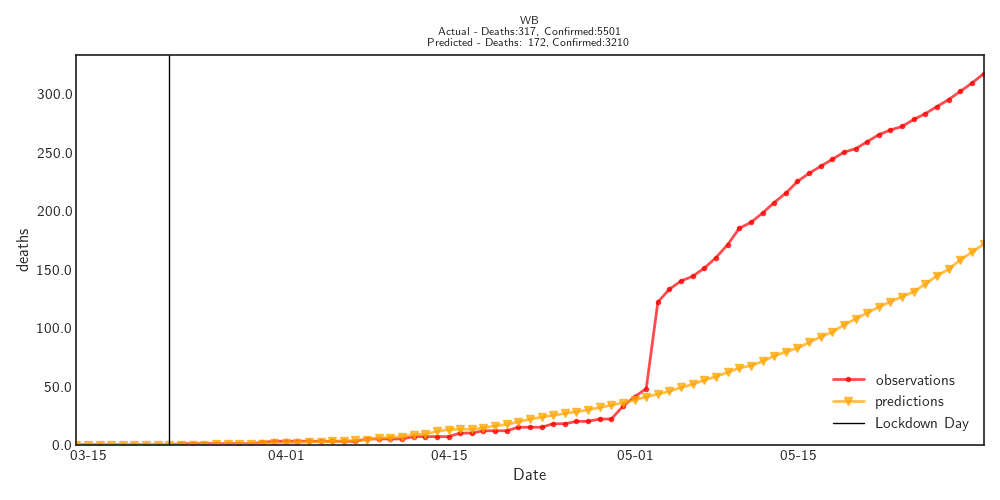
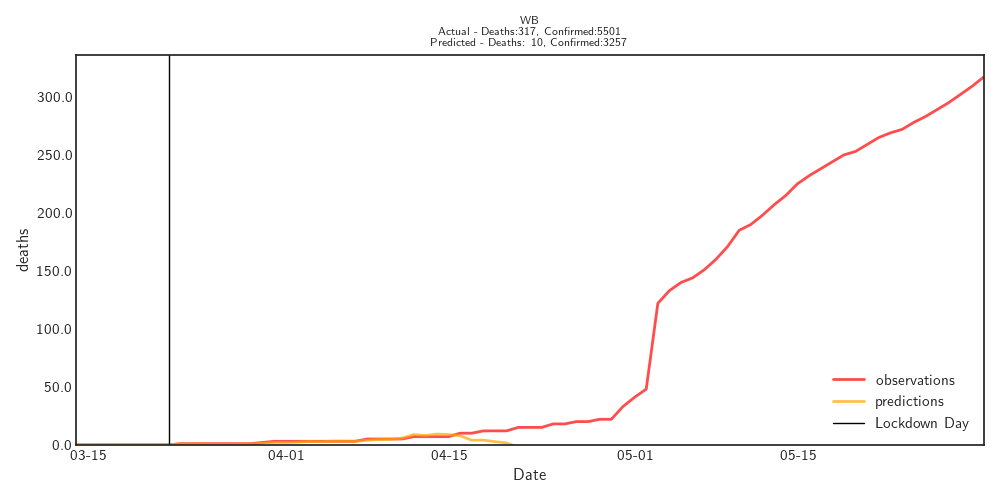
Improved graphs

diff --git a/code/run_OTH.py b/code/run_OTH.py
@@ -24,8 +24,8 @@ def main():
         name = state['name']
         lockdown_date = state['start']
         lockdown_date_index = metadata['dates'].index(lockdown_date)
-        end_date_index = len(metadata['dates'])-20
-        score_mrsc(file1, file2,'Province_State', name, 0, lockdown_date_index, end_date_index, metric[0], 'other')
+        end_date_index = len(metadata['dates'])
+        score_mrsc(file1, file2,'Province_State', name, 0, lockdown_date_index, end_date_index, metric[0], 'other', metadata['dates'], lockdown_date)
 
 if __name__ == "__main__":
     main()  

diff --git a/code/run_AUS.py b/code/run_AUS.py
@@ -30,7 +30,7 @@ def main():
         lockdown_date = state['start']
         lockdown_date_index = metadata['dates'].index(lockdown_date)
         end_date_index = len(metadata['dates'])
-        score_mrsc(file1, file2,'Province_State', name, 0, lockdown_date_index, end_date_index, metric[0], 'aus')
+        score_mrsc(file1, file2,'Province_State', name, 0, lockdown_date_index, end_date_index, metric[0], 'aus', metadata['dates'], lockdown_date)
 
 if __name__ == "__main__":
     main()  

diff --git a/code/run_US.py b/code/run_US.py
@@ -14,8 +14,8 @@ lockdown_state = [
 ]
 
 def main():
-    #update()
-    #prepare()
+    update()
+    prepare()
     metric = ['deaths', 'confirmed']
     file1 = f'../data/processed/us/{metric[0]}.csv'
     file2 = f'../data/processed/us/{metric[1]}.csv'

diff --git a/code/run_IN.py b/code/run_IN.py
@@ -11,7 +11,7 @@ lockdown_state = [
 ]
 
 def main():
-    #update()
+    update()
     prepare()
     metric = ['deaths', 'confirmed']
     file1 = f'../data/processed/in/{metric[0]}.csv'
